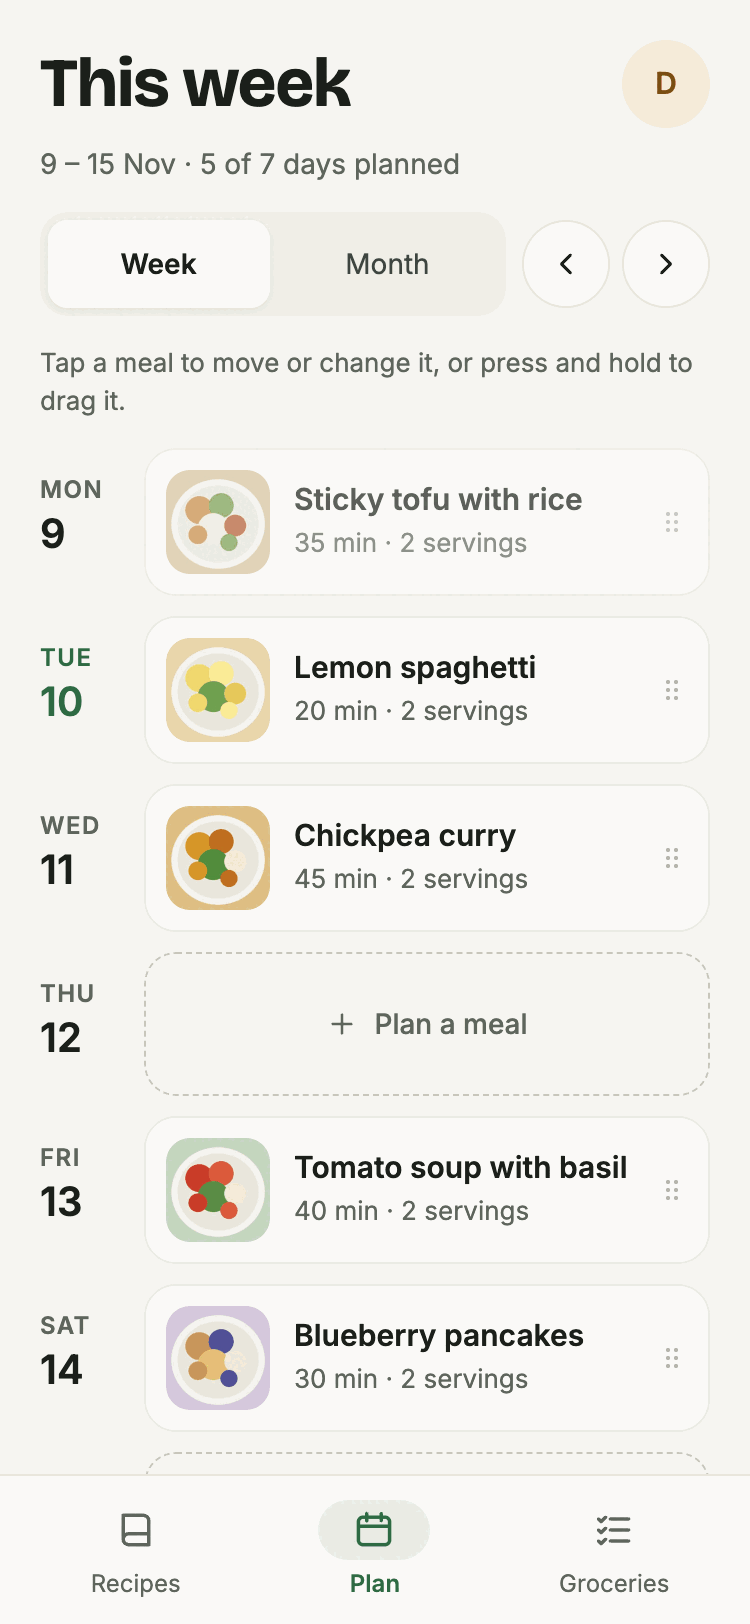
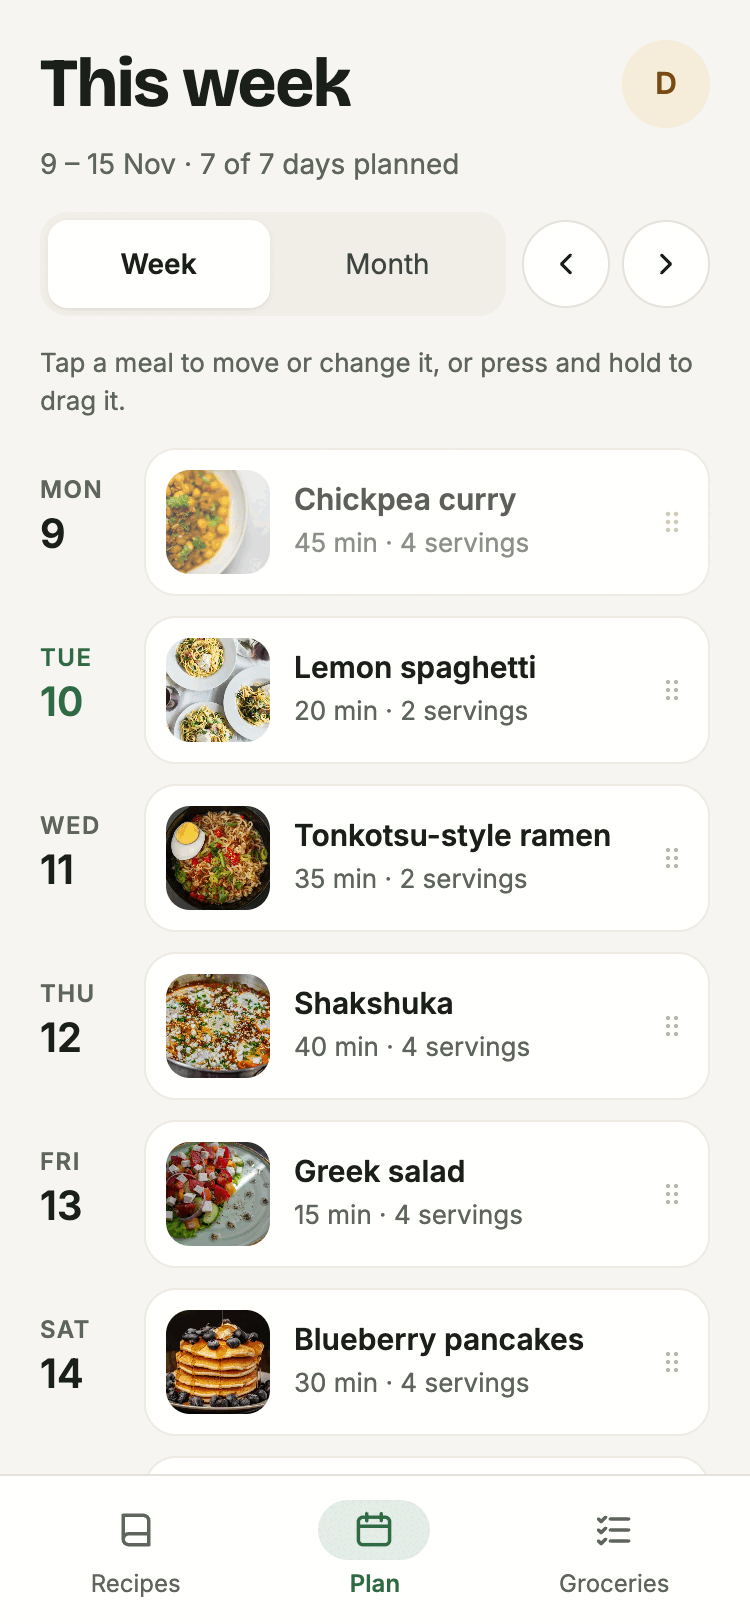
Screenshots: real recipes and photos
Eight real recipes with freely licensed Unsplash photos (credited in
docs/screenshots/CREDITS.md), a full week plan, settings and public
share page shots, and a seed script that loads the photos from disk.

diff --git a/docs/screenshots/seed.py b/docs/screenshots/seed.py
@@ -1,18 +1,18 @@
 #!/usr/bin/env python3
 """Fills a fresh mise instance with demo content for the README screenshots.
 
-    MISE_DATA_DIR=$(mktemp -d) MISE_LISTEN=:8084 go run ./cmd/mise-server serve
-    python3 docs/screenshots/seed.py http://localhost:8084
+    MISE_DATA_DIR=$(mktemp -d) MISE_LISTEN=127.0.0.1:8090 go run ./cmd/mise-server serve
+    python3 docs/screenshots/seed.py http://127.0.0.1:8090
 
 It talks to the running server like a browser would (setup, recipe editor,
 planner, shopping list), so it needs a database that has not been set up yet.
-Recipe photos are drawn with Pillow; install it with `pip install pillow`, or
-the recipes are created without photos. Sign in afterwards as
+Recipe photos come from docs/screenshots/photos (credits in CREDITS.md).
+Sign in afterwards as
 demo / demo-password-123.
 """
 
 import datetime
-import io
+import pathlib
 import re
 import sys
 import urllib.error
@@ -20,7 +20,7 @@ import urllib.parse
 import urllib.request
 import uuid
 
-BASE = (sys.argv[1] if len(sys.argv) > 1 else "http://localhost:8084").rstrip("/")
+BASE = (sys.argv[1] if len(sys.argv) > 1 else "http://127.0.0.1:8090").rstrip("/")
 PASSWORD = "demo-password-123"
 
 jar = urllib.request.HTTPCookieProcessor()
@@ -53,60 +53,71 @@ def get(path):
         return res.geturl(), res.read().decode()
 
 
-def photo(colors):
-    """A simple plate: background, a plate, and a few food blobs."""
-    try:
-        from PIL import Image, ImageDraw, ImageFilter
-    except ImportError:
-        return None
-    im = Image.new("RGB", (900, 675), colors[0])
-    d = ImageDraw.Draw(im)
-    d.ellipse((150, 60, 750, 640), fill=(245, 242, 235))
-    d.ellipse((190, 100, 710, 600), fill=(236, 231, 221))
-    spots = [(330, 260, 90), (470, 230, 80), (420, 380, 100), (560, 360, 70), (320, 420, 60), (520, 470, 55)]
-    for i, (x, y, r) in enumerate(spots):
-        d.ellipse((x - r, y - r, x + r, y + r), fill=colors[1 + i % (len(colors) - 1)])
-    im = im.filter(ImageFilter.GaussianBlur(2))
-    out = io.BytesIO()
-    im.save(out, "JPEG", quality=82)
-    return out.getvalue()
-
+PHOTOS = pathlib.Path(__file__).resolve().parent / "photos"
 
 RECIPES = [
-    dict(name="Sticky tofu with rice", servings=2, prep=10, cook=25, tags="Vegan, Asian, Weeknight",
-         ing=[("400 g", "Firm tofu"), ("3 tbsp", "Soy sauce"), ("2 tbsp", "Maple syrup"), ("1 tbsp", "Rice vinegar"),
-              ("200 g", "Jasmine rice"), ("2", "Spring onions")],
-         steps=[("Press the tofu for 10 minutes, then cut it into cubes.", "10"),
-                ("Whisk soy sauce, maple syrup and vinegar.", ""),
-                ("Fry the tofu until golden, pour in the glaze and let it turn sticky.", "8"),
-                ("Serve over rice with sliced spring onions.", "")],
-         colors=[(214, 196, 160), (201, 140, 70), (120, 160, 80), (240, 235, 220), (180, 90, 50)]),
-    dict(name="Tomato soup with basil", servings=4, prep=10, cook=30, tags="Vegetarian, Soup",
-         ing=[("800 g", "Tinned tomatoes"), ("1", "Onion"), ("2", "Garlic cloves"), ("500 ml", "Vegetable stock"),
-              ("1 bunch", "Basil"), ("100 ml", "Cream")],
-         steps=[("Soften the onion and garlic in oil.", "6"), ("Add tomatoes and stock and simmer.", "20"),
-                ("Blend with the basil and stir in the cream.", "")],
-         colors=[(196, 214, 190), (200, 60, 40), (220, 90, 60), (90, 140, 70), (240, 230, 210)]),
-    dict(name="Lemon spaghetti", servings=2, prep=5, cook=15, tags="Vegetarian, Pasta, Weeknight",
-         ing=[("200 g", "Spaghetti"), ("1", "Lemon"), ("40 g", "Parmesan"), ("2 tbsp", "Olive oil"), ("1 handful", "Rocket")],
-         steps=[("Cook the spaghetti in salted water.", "10"), ("Toss with lemon zest, juice, oil and parmesan.", ""),
-                ("Top with rocket.", "")],
-         colors=[(232, 214, 170), (240, 215, 110), (250, 235, 150), (110, 160, 80), (230, 200, 90)]),
-    dict(name="Chickpea curry", servings=4, prep=15, cook=30, tags="Vegan, Curry",
-         ing=[("2 tins", "Chickpeas"), ("400 ml", "Coconut milk"), ("1", "Onion"), ("2 tbsp", "Curry paste"),
-              ("200 g", "Spinach"), ("300 g", "Basmati rice")],
-         steps=[("Fry the onion and curry paste.", "5"), ("Add chickpeas and coconut milk and simmer.", "20"),
-                ("Stir in the spinach and serve with rice.", "")],
-         colors=[(222, 190, 130), (214, 150, 40), (190, 110, 30), (80, 140, 60), (245, 235, 210)]),
-    dict(name="Blueberry pancakes", servings=4, prep=10, cook=20, tags="Vegetarian, Breakfast",
-         ing=[("250 g", "Flour"), ("2", "Eggs"), ("300 ml", "Milk"), ("150 g", "Blueberries"), ("2 tbsp", "Butter")],
-         steps=[("Whisk flour, eggs and milk into a batter.", ""), ("Fold in the blueberries.", ""),
-                ("Fry small pancakes in butter until golden.", "15")],
-         colors=[(214, 200, 220), (200, 150, 90), (80, 80, 150), (230, 190, 120), (240, 230, 215)]),
-    dict(name="Greek salad", servings=2, prep=10, cook=0, tags="Vegetarian, Salad, Quick",
-         ing=[("4", "Tomatoes"), ("1", "Cucumber"), ("150 g", "Feta"), ("1 handful", "Olives"), ("1", "Red onion")],
-         steps=[("Chop the vegetables into chunks.", ""), ("Top with feta and olives, dress with oil and oregano.", "")],
-         colors=[(200, 220, 200), (210, 60, 50), (120, 180, 90), (240, 240, 230), (90, 60, 90)]),
+    dict(name="Greek salad", photo="greek-salad", servings=4, prep=15, cook=0, tags="Vegetarian, Salad, Summer",
+         ing=[("4", "Ripe tomatoes"), ("1", "Cucumber"), ("1", "Red onion"), ("1", "Green pepper"),
+              ("200 g", "Feta"), ("100 g", "Kalamata olives"), ("4 tbsp", "Olive oil"), ("1 tbsp", "Red wine vinegar"),
+              ("1 tsp", "Dried oregano")],
+         steps=[("Cut the tomatoes into wedges and the cucumber into thick half-moons. Slice the onion and pepper into thin rings.", ""),
+                ("Pile everything into a wide bowl with the olives and let it sit for ten minutes so the tomatoes give up some juice.", "10"),
+                ("Whisk the oil and vinegar, pour it over, and lay the feta on top in one slab. Sprinkle with oregano and serve with bread.", "")]),
+    dict(name="Shakshuka", photo="shakshuka", servings=4, prep=10, cook=30, tags="Vegetarian, Breakfast, One pan",
+         ing=[("2 tbsp", "Olive oil"), ("1", "Onion"), ("1", "Red pepper"), ("3", "Garlic cloves"),
+              ("2 tsp", "Smoked paprika"), ("1 tsp", "Ground cumin"), ("800 g", "Tinned chopped tomatoes"),
+              ("6", "Eggs"), ("100 g", "Feta"), ("1 handful", "Parsley")],
+         steps=[("Soften the diced onion and pepper in the oil over medium heat until sweet and floppy.", "8"),
+                ("Stir in garlic, paprika and cumin for a minute, then add the tomatoes with a pinch of salt. Simmer until thick enough to hold a spoon trail.", "15"),
+                ("Make six hollows in the sauce and crack an egg into each. Cover and cook until the whites are just set and the yolks still wobble.", "6"),
+                ("Crumble feta over the top, scatter parsley and bring the pan to the table with warm bread.", "")]),
+    dict(name="Chickpea curry", photo="chickpea-curry", servings=4, prep=15, cook=30, tags="Vegan, Curry, Weeknight",
+         ing=[("2 tbsp", "Vegetable oil"), ("1", "Onion"), ("3", "Garlic cloves"), ("1 piece", "Ginger, thumb-sized"),
+              ("2 tbsp", "Curry powder"), ("2 tins", "Chickpeas"), ("400 g", "Tinned chopped tomatoes"),
+              ("200 ml", "Coconut milk"), ("150 g", "Baby spinach"), ("300 g", "Basmati rice")],
+         steps=[("Fry the chopped onion in the oil until golden, then add grated garlic and ginger and cook for a minute.", "10"),
+                ("Add the curry powder and toast it briefly, then pour in the tomatoes, drained chickpeas and coconut milk.", ""),
+                ("Simmer uncovered until the sauce clings to the chickpeas. Cook the rice alongside.", "20"),
+                ("Fold in the spinach until wilted, taste for salt and lemon, and serve over rice.", "")]),
+    dict(name="Lemon spaghetti", photo="lemon-spaghetti", servings=2, prep=5, cook=15, tags="Vegetarian, Pasta, Quick",
+         ing=[("200 g", "Spaghetti"), ("2", "Unwaxed lemons"), ("40 g", "Butter"), ("1", "Garlic clove"),
+              ("50 g", "Parmesan"), ("2 handfuls", "Rocket"), ("1 pinch", "Chilli flakes")],
+         steps=[("Boil the spaghetti in well-salted water and keep a mugful of the cooking water before draining.", "10"),
+                ("Melt the butter with the crushed garlic, the zest of both lemons and the juice of one.", ""),
+                ("Toss the pasta through the butter with a splash of pasta water and most of the parmesan until glossy.", ""),
+                ("Stir in the rocket, top with the remaining parmesan and chilli, and eat straight away.", "")]),
+    dict(name="Blueberry pancakes", photo="blueberry-pancakes", servings=4, prep=10, cook=20, tags="Vegetarian, Breakfast, Sweet",
+         ing=[("250 g", "Plain flour"), ("2 tbsp", "Sugar"), ("2 tsp", "Baking powder"), ("1 pinch", "Salt"),
+              ("300 ml", "Milk"), ("2", "Eggs"), ("30 g", "Melted butter"), ("150 g", "Blueberries"),
+              ("4 tbsp", "Maple syrup")],
+         steps=[("Mix the flour, sugar, baking powder and salt in a large bowl.", ""),
+                ("Whisk the milk, eggs and melted butter, pour into the dry mix and stir only until the lumps are mostly gone.", ""),
+                ("Ladle small rounds into a lightly buttered pan, drop a few berries onto each and cook until bubbles appear on top, then flip.", "3"),
+                ("Stack the pancakes, add the rest of the berries and pour over the syrup.", "")]),
+    dict(name="Tonkotsu-style ramen", photo="ramen", servings=2, prep=15, cook=20, tags="Asian, Soup, Comfort food",
+         ing=[("800 ml", "Chicken stock"), ("2 tbsp", "White miso"), ("1 tbsp", "Soy sauce"), ("2 cloves", "Garlic"),
+              ("2 nests", "Ramen noodles"), ("2", "Eggs"), ("2", "Spring onions"), ("1 tbsp", "Sesame oil"),
+              ("1 sheet", "Nori"), ("1 tsp", "Chilli oil")],
+         steps=[("Lower the eggs into boiling water for seven minutes, cool them in cold water, then peel and halve.", "7"),
+                ("Warm the stock with the crushed garlic, whisk in the miso and soy sauce, and keep it just below a simmer.", "10"),
+                ("Boil the noodles as the packet says, drain well and divide between two deep bowls.", "4"),
+                ("Ladle the broth over, then add the eggs, sliced spring onions, nori, sesame and chilli oil.", "")]),
+    dict(name="Roast chicken with garlic", photo="roast-chicken", servings=4, prep=15, cook=90, tags="Meat, Sunday, Roast",
+         ing=[("1.8 kg", "Whole chicken"), ("1 head", "Garlic"), ("1", "Lemon"), ("50 g", "Soft butter"),
+              ("4 sprigs", "Thyme"), ("800 g", "Potatoes"), ("2", "Carrots"), ("2 tbsp", "Olive oil")],
+         steps=[("Heat the oven to 200 C. Pat the chicken dry and rub it all over with butter, salt and pepper.", ""),
+                ("Put the halved lemon, thyme and half the garlic inside the bird and set it in a roasting tin on the chopped potatoes and carrots tossed with oil.", ""),
+                ("Roast, scattering the remaining garlic cloves around the tin after the first half hour.", "75"),
+                ("Check that the juices from the thigh run clear, then rest the chicken under foil before carving.", "15")]),
+    dict(name="Tiramisu", photo="tiramisu", servings=6, prep=30, cook=0, tags="Vegetarian, Dessert, Make ahead",
+         ing=[("3", "Egg yolks"), ("60 g", "Sugar"), ("250 g", "Mascarpone"), ("200 ml", "Double cream"),
+              ("250 ml", "Strong espresso, cooled"), ("2 tbsp", "Marsala"), ("200 g", "Savoiardi biscuits"),
+              ("2 tbsp", "Cocoa powder")],
+         steps=[("Whisk the yolks and sugar over a pan of barely simmering water until pale and thick, then take off the heat and let cool.", "8"),
+                ("Beat in the mascarpone, then fold in the cream whipped to soft peaks.", ""),
+                ("Stir the marsala into the espresso and dip the biscuits briefly, one at a time, to line a dish.", ""),
+                ("Spread half the cream over the biscuits, add a second layer of each, and smooth the top.", ""),
+                ("Chill overnight, then dust with cocoa just before serving.", "")]),
 ]
 
 
@@ -122,28 +133,31 @@ def main():
             "ing_amount": [a for a, _ in r["ing"]], "ing_name": [b for _, b in r["ing"]],
             "step": [s for s, _ in r["steps"]], "step_timer": [t for _, t in r["steps"]],
         }
-        img = photo(r["colors"])
-        files = {"photo_file": ("photo.jpg", img)} if img else None
+        files = {"photo_file": ("photo.jpg", (PHOTOS / f"{r['photo']}.jpg").read_bytes())}
         url, _ = post("/recipes", fields, files)
         ids[r["name"]] = re.search(r"/recipes/([0-9a-f-]{36})", url).group(1)
 
-    # Plan this week: dinner for most days, ingredients of the first two on the list.
+    # Plan this week; the ingredients of the first two meals go on the list.
     today = datetime.date.today()
     monday = today - datetime.timedelta(days=today.weekday())
-    week = [("Sticky tofu with rice", 0), ("Lemon spaghetti", 1), ("Chickpea curry", 2),
-            ("Tomato soup with basil", 4), ("Blueberry pancakes", 5)]
-    for name, offset in week:
+    week = [("Chickpea curry", 0), ("Lemon spaghetti", 1), ("Tonkotsu-style ramen", 2), ("Shakshuka", 3),
+            ("Greek salad", 4), ("Blueberry pancakes", 5), ("Roast chicken with garlic", 6), ("Tiramisu", 6)]
+    servings = {r["name"]: r["servings"] for r in RECIPES}
+    for i, (name, offset) in enumerate(week):
         rid = ids[name]
         _, page = get(f"/recipes/{rid}")
-        ing = sorted(set(re.findall(rf"/recipes/{rid}/ingredients/([0-9a-f-]{{36}})/toggle", page)))
+        ing = sorted(set(re.findall(rf"/recipes/{rid}/ingredients/([0-9a-f-]{{36}})/toggle", page))) if i < 2 else []
         date = (monday + datetime.timedelta(days=offset)).isoformat()
-        post("/plan", {"recipe": rid, "date": date, "servings": "2", "ingredient": ing,
+        post("/plan", {"recipe": rid, "date": date, "servings": str(servings[name]), "ingredient": ing,
                        "back": f"/plan?week={monday.isoformat()}"})
+
+    # One recipe gets a public link (the share page screenshot).
+    post(f"/recipes/{ids['Shakshuka']}/share", {})
 
     # A few loose entries on the shopping list.
     url, page = get("/groceries")
     lid = re.search(r"/groceries/lists/([0-9a-f-]{36})", url + page).group(1)
-    for text in ["1 l oat milk", "6 eggs", "Bananas", "2 lemons", "Dishwasher tabs"]:
+    for text in ["1 l oat milk", "Bananas", "Dishwasher tabs", "Kitchen roll"]:
         post(f"/groceries/lists/{lid}/entries", {"text": text})
     print("seeded; sign in as demo /", PASSWORD)
 

diff --git a/README.md b/README.md
@@ -9,7 +9,7 @@ Self-hosted recipes, meal plan and shared shopping lists for your household. One
 
 ## Features
 
-- **Recipes.** Photos, tags, favourites, search by name or ingredient, "goes well with" links, a bin with undo. Scale servings on the page; amounts show in each viewer's units (metric or US).
+- **Recipes.** Photos, tags, favourites, search by name or ingredient, "goes well with" links, a bin with undo, public read-only links you can turn off again. Scale servings on the page; amounts show in each viewer's units (metric or US).
 - **Import.** From a link (schema.org recipes import without any model) or pasted text. An optional AI model, off by default, handles pages without structured data: Anthropic, any OpenAI-compatible API, or a local Ollama.
 - **Meal plan.** A week and a month view, drag meals between days, suggestions for recipes you have not cooked in a while.
 - **Shopping lists.** Add a meal's ingredients to a list in one tap, or type "2 lemons". Lists update live on every device, so two people can shop from one.
@@ -21,14 +21,16 @@ Self-hosted recipes, meal plan and shared shopping lists for your household. One
   <img src="docs/screenshots/recipes-desktop-light.png" alt="The recipe library" width="49%">
   <img src="docs/screenshots/recipe-desktop-light.png" alt="A recipe" width="49%">
   <img src="docs/screenshots/groceries-desktop-light.png" alt="The shopping list" width="49%">
-  <img src="docs/screenshots/plan-desktop-dark.png" alt="The week plan in dark mode" width="49%">
+  <img src="docs/screenshots/settings-desktop-light.png" alt="Household settings" width="49%">
 </p>
 <p>
-  <img src="docs/screenshots/recipe-phone-light.png" alt="A recipe on a phone" width="19%">
-  <img src="docs/screenshots/plan-phone-light.png" alt="The plan on a phone" width="19%">
-  <img src="docs/screenshots/groceries-phone-light.png" alt="The shopping list on a phone" width="19%">
-  <img src="docs/screenshots/cook-phone.png" alt="Cook mode on a phone" width="19%">
-  <img src="docs/screenshots/recipes-phone-dark.png" alt="The library on a phone in dark mode" width="19%">
+  <img src="docs/screenshots/recipe-phone-light.png" alt="A recipe on a phone" width="13.5%">
+  <img src="docs/screenshots/plan-phone-light.png" alt="The plan on a phone" width="13.5%">
+  <img src="docs/screenshots/groceries-phone-light.png" alt="The shopping list on a phone" width="13.5%">
+  <img src="docs/screenshots/cook-phone.png" alt="Cook mode on a phone" width="13.5%">
+  <img src="docs/screenshots/recipes-phone-dark.png" alt="The library on a phone in dark mode" width="13.5%">
+  <img src="docs/screenshots/settings-phone-light.png" alt="Settings on a phone" width="13.5%">
+  <img src="docs/screenshots/share-phone.png" alt="A public recipe link opened on a phone" width="13.5%">
 </p>
 
 ## Quick start
@@ -137,4 +139,4 @@ Pushes to `main` publish `ghcr.io/raphi011/mise:edge`. A `vX.Y.Z` tag publishes 
 
 ### Screenshots
 
-The images in `docs/screenshots` are regenerated against a scratch instance: start the server with an empty `MISE_DATA_DIR`, run `python3 docs/screenshots/seed.py http://localhost:8084` (needs Pillow for the photos), then `node docs/screenshots/shoot.mjs http://localhost:8084 docs/screenshots` (needs Chrome).
+The images in `docs/screenshots` are regenerated against a scratch instance: start the server with an empty `MISE_DATA_DIR` and `MISE_LISTEN=127.0.0.1:8090`, run `python3 docs/screenshots/seed.py http://127.0.0.1:8090`, then `node docs/screenshots/shoot.mjs http://127.0.0.1:8090 docs/screenshots` (needs Chrome). The recipe photos are in `docs/screenshots/photos`, credited in [CREDITS.md](docs/screenshots/CREDITS.md).

diff --git a/docs/screenshots/CREDITS.md b/docs/screenshots/CREDITS.md
@@ -1,0 +1,14 @@
+# Photo credits
+
+Recipe photos in `photos/` are free to use under the [Unsplash License](https://unsplash.com/license). They were resized and cropped to 4:3 where needed (about 1200 px wide, JPEG quality 80).
+
+| File | Dish | Photographer | Source |
+|---|---|---|---|
+| `greek-salad.jpg` | Greek salad | Ksenia Yakovleva | <https://unsplash.com/photos/LnbSnwxGd-8> |
+| `shakshuka.jpg` | Shakshuka | Delaney Van | <https://unsplash.com/photos/I-SxrfASwug> |
+| `chickpea-curry.jpg` | Chickpea curry | Green And Great | <https://unsplash.com/photos/7m0b7YwvnvI> |
+| `lemon-spaghetti.jpg` | Lemon spaghetti | Brooke Lark | <https://unsplash.com/photos/-F_5g8EEHYE> |
+| `blueberry-pancakes.jpg` | Blueberry pancakes | Amber Fisher | <https://unsplash.com/photos/krqTbKwuFgw> |
+| `ramen.jpg` | Ramen | Ikhsan Baihaqi | <https://unsplash.com/photos/RwAXb8Hv_sU> |
+| `roast-chicken.jpg` | Roast chicken | Anto Meneghini | <https://unsplash.com/photos/mlQ2_HrjccU> |
+| `tiramisu.jpg` | Tiramisu | Marianna OLE | <https://unsplash.com/photos/4El3DUkQs2g> |
